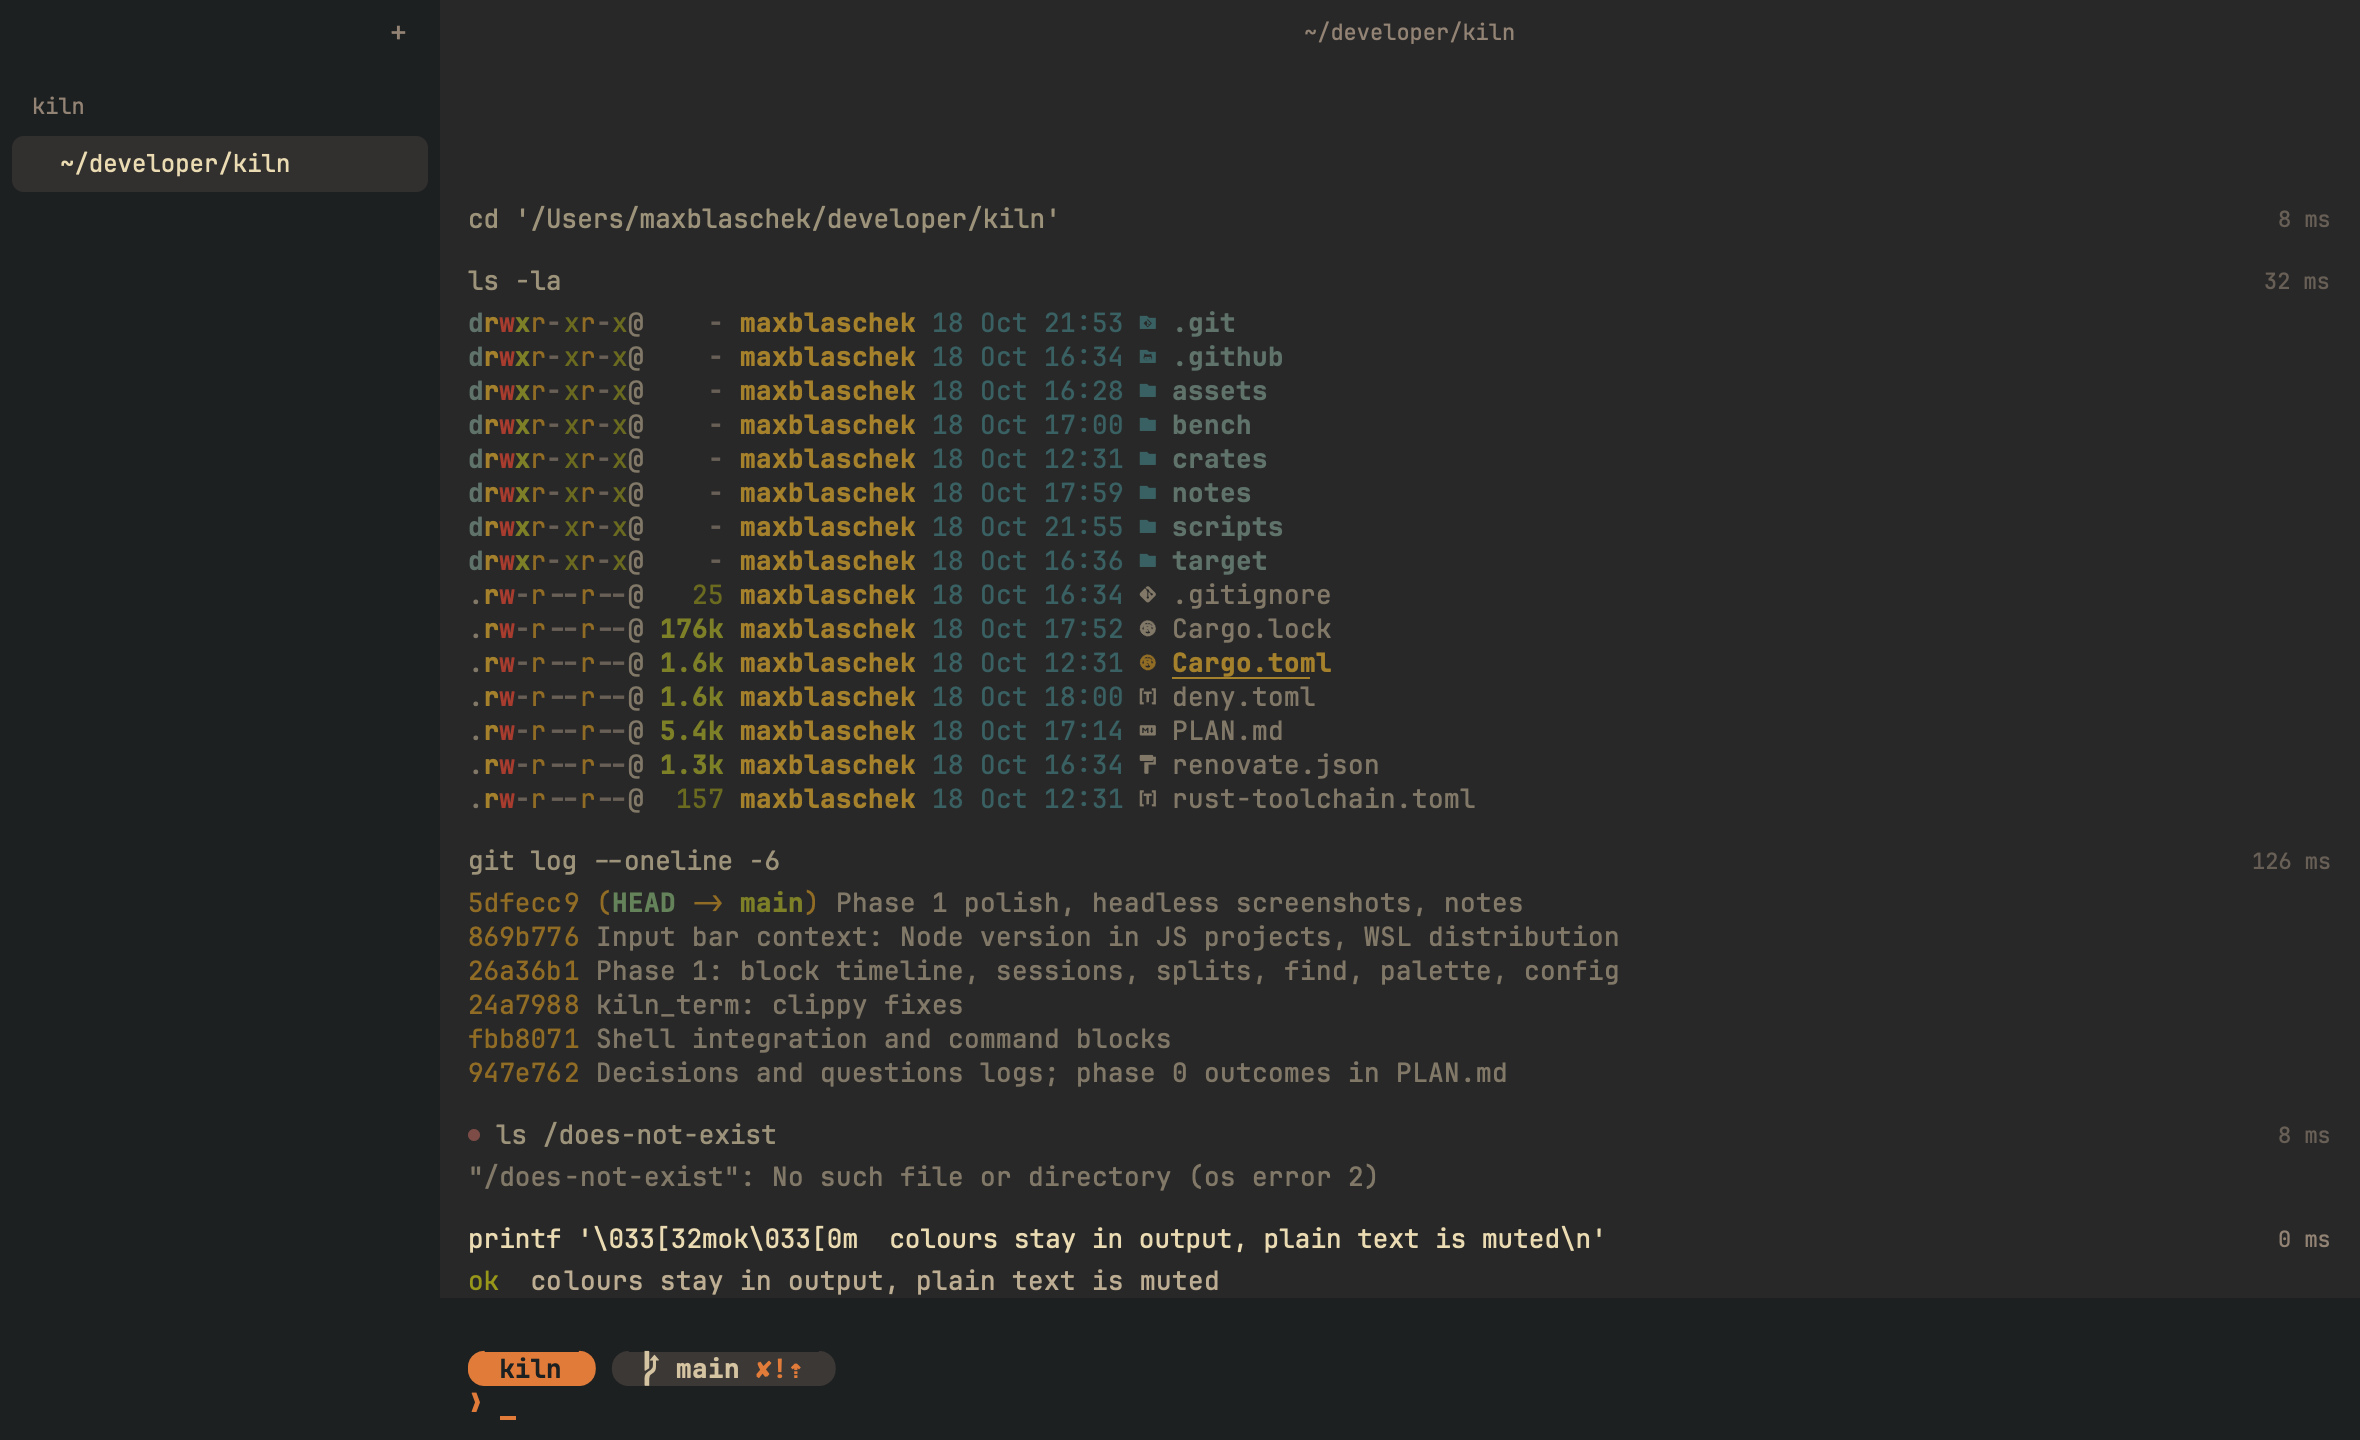
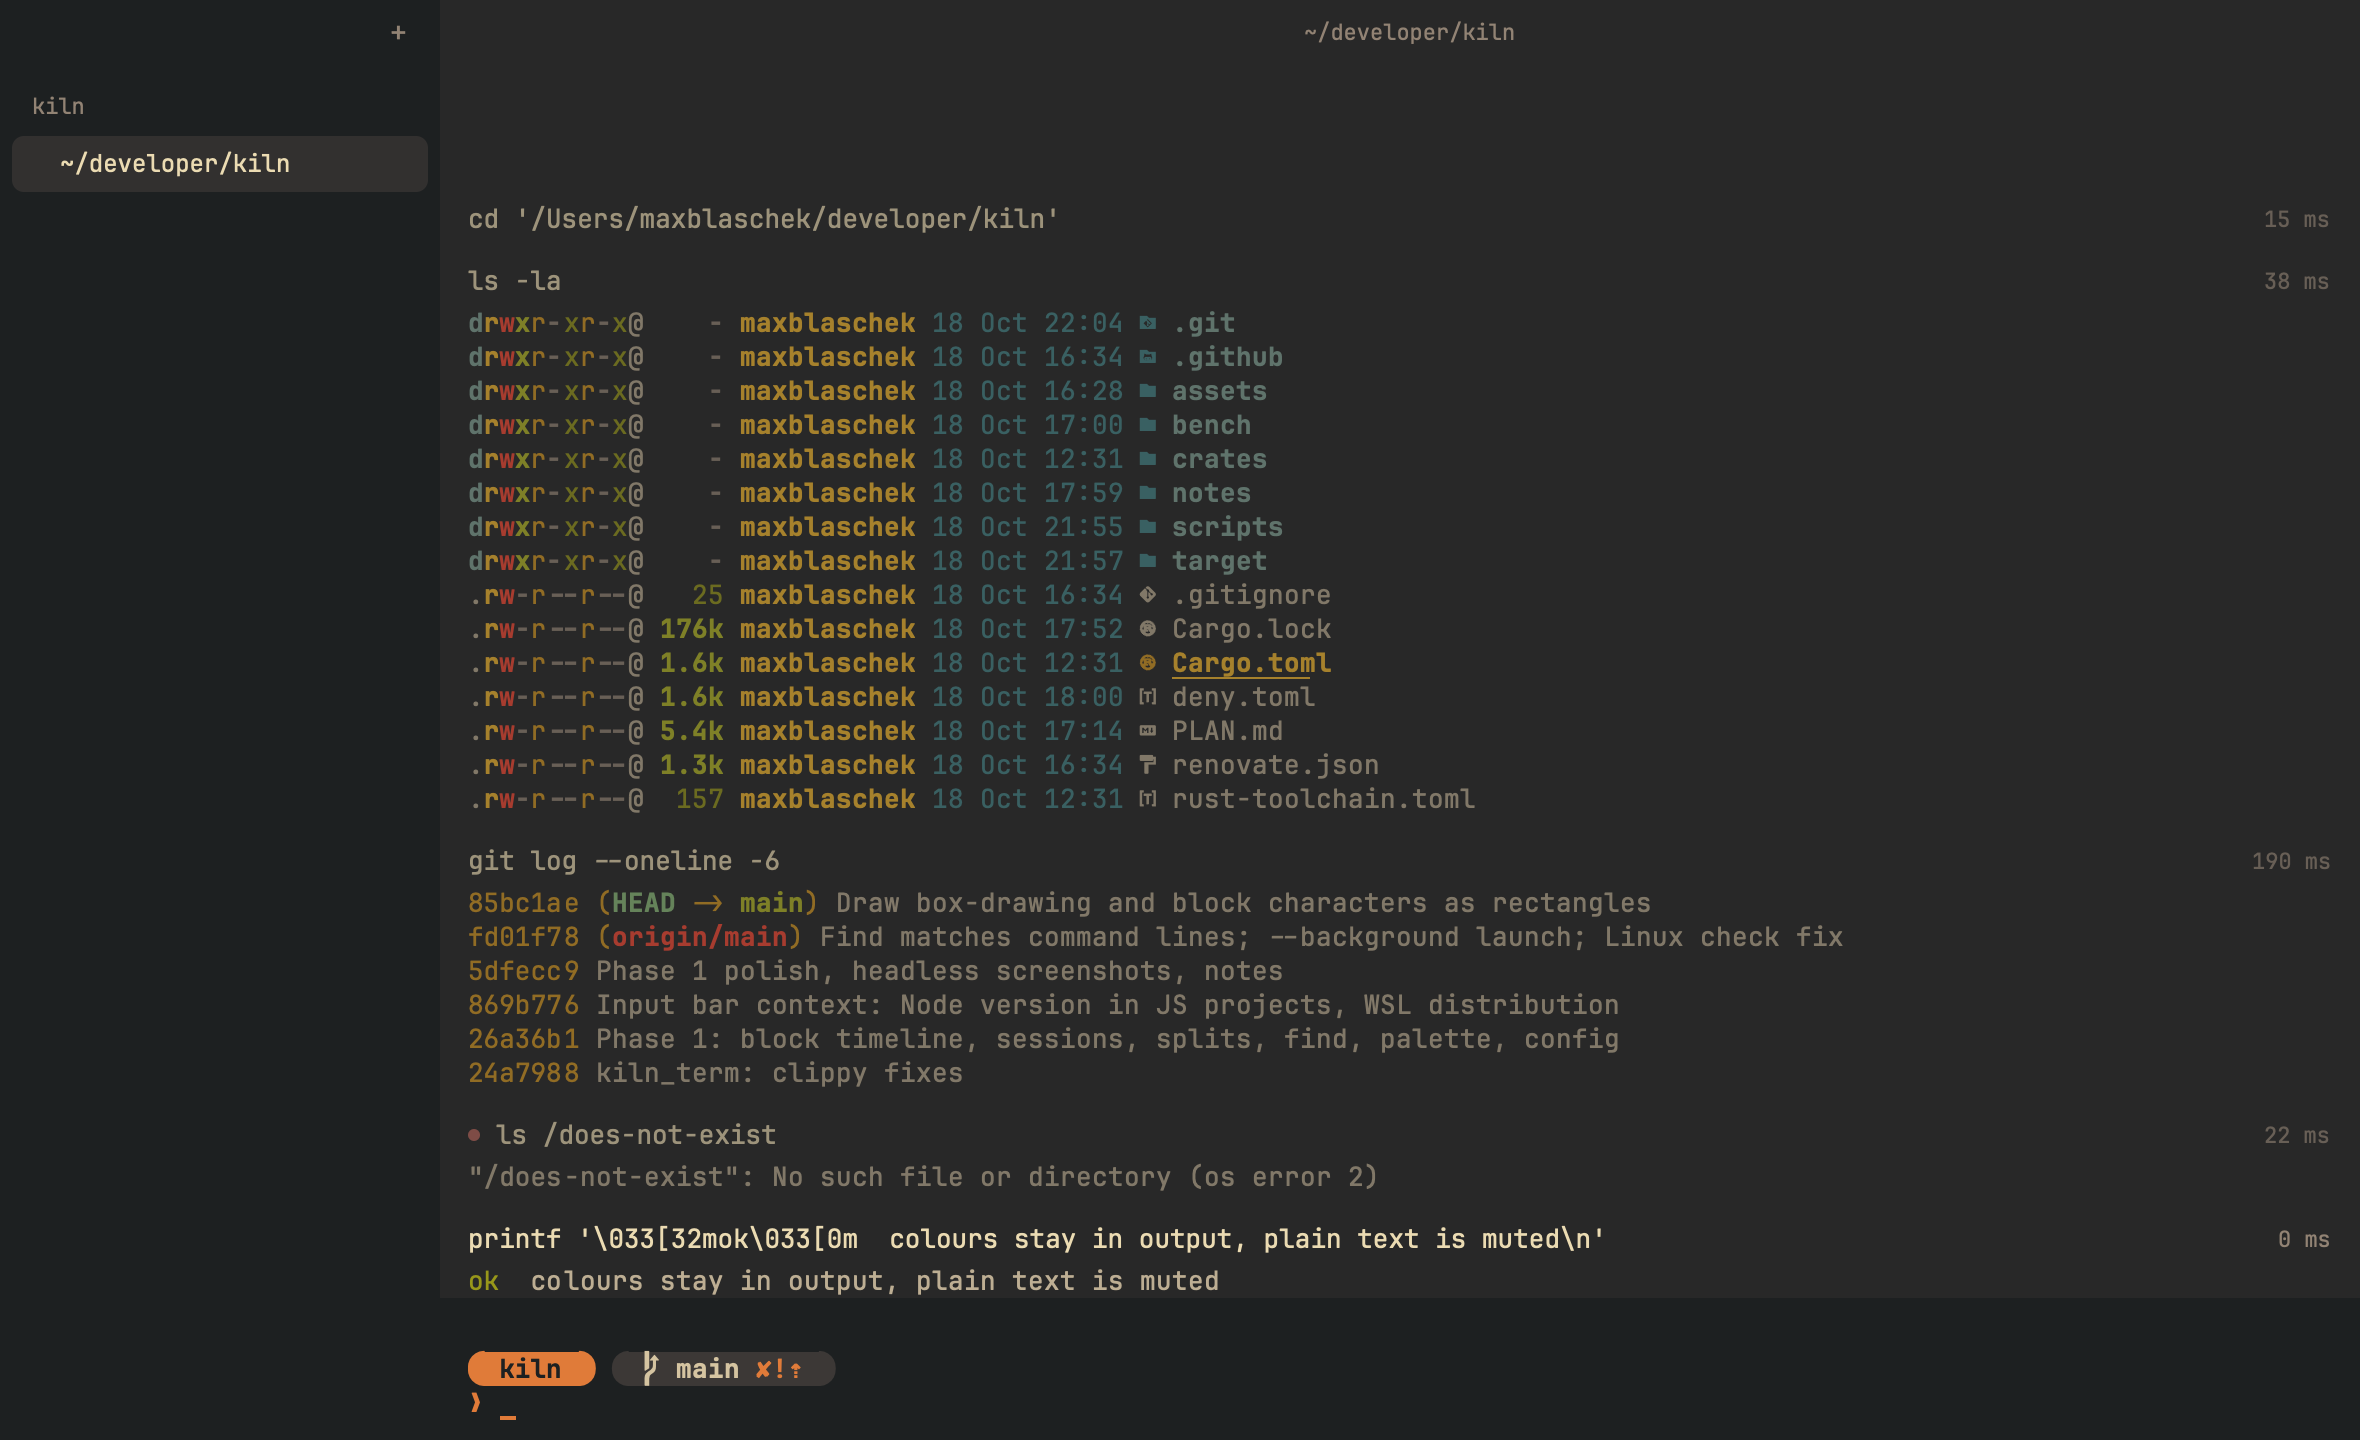
Phase 1 notes: rendering sample, find covers command lines

Changed region(s): [[0.1856, 0.625, 0.7733, 0.75]]

diff --git a/notes/phase1.md b/notes/phase1.md
@@ -10,6 +10,7 @@ because the Mac's screen was locked while this was built. The same tool runs in 
 | --- | --- | --- |
 | Blocks: one per command, old ones dim, hover actions Copy / Rerun / Pin / Open log, failures as a small dot | Done | [02](screenshots/phase1/02-blocks.png), [03](screenshots/phase1/03-hover-actions.png) |
 | Commands bright, output muted (program colours kept), metadata dim | Done | [02](screenshots/phase1/02-blocks.png) |
+| Rendering: box drawing, blocks, eighths and shades drawn seamlessly; `clear` empties the timeline | Done | [02b](screenshots/phase1/02b-rendering-sample.png) |
 | Running command shown live, with a green dot and elapsed time | Done | [04](screenshots/phase1/04-running.png) |
 | Input bar pinned at the bottom: the shell's own prompt and line editor (autosuggestions, highlighting, fzf all keep working) | Done | [01](screenshots/phase1/01-prompt.png) |
 | Dim context in the input bar: Node version in JS projects, `WSL · distro` on Windows | Done (not in the shots: this repo is not a JS project) | |
@@ -66,11 +67,8 @@ tick 6
   stayed behind the user's work, where macOS pauses drawing, so the visuals come from the
   headless renders. Still to try by hand: mouse selection across blocks, the title-bar drag,
   and IME composition.
-- Find covers output, not the command lines in block headers.
 - Splits are equal width (no dragging) and side by side only.
 - Sessions and layouts are not restored after a restart (phase 2: project spaces with layouts).
-- Box and block characters still come from the font (seams possible); drawing them is a
-  rendering task for phase 2.
 - Bash 3.2 (macOS's built-in bash) drops non-ASCII typed input; that is its old readline.
 
 ## Next: phase 2

diff --git a/notes/screenshots/phase1/07-copy-last-output.md b/notes/screenshots/phase1/07-copy-last-output.md
@@ -6,5 +6,5 @@ tick 3
 tick 4
 tick 5
 tick 6
-# exit 0 · 6.03 s
+# exit 0 · 6.10 s
 ```
